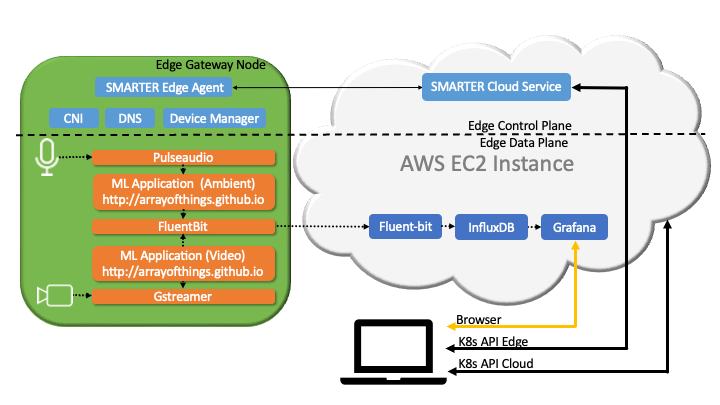
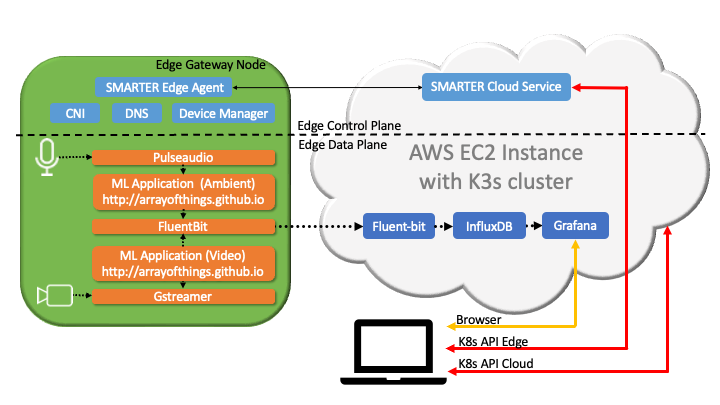
Update documentation

diff --git a/SMARTER_example.md b/SMARTER_example.md
@@ -12,6 +12,8 @@ SMARTER and all of its components are open source.
 This figure shows the components of the application and where they reside. 
 ![SMARTER](SMARTER_example.png)
 
+The light blue components are control plane for the edge. The pods running at the edge are represented in orange. In SMARTER, edge pods are deployed by DaemonSets gated by labels on each node, each edge node in SMARTER is a kubernetes node where the kubernetes server runs as a pod in the cloud (SMARTER Cloud Service).  Dark blue components runs in the cloud and are deployed in a cloud kubernetes cluster  
+
 ### Getting Started with SMARTER
 
 SMARTER has components running in the cloud and at the edge. Video and audio are processed at the edge. Edge control plane and data aggregators and visualizers run in the cloud.
